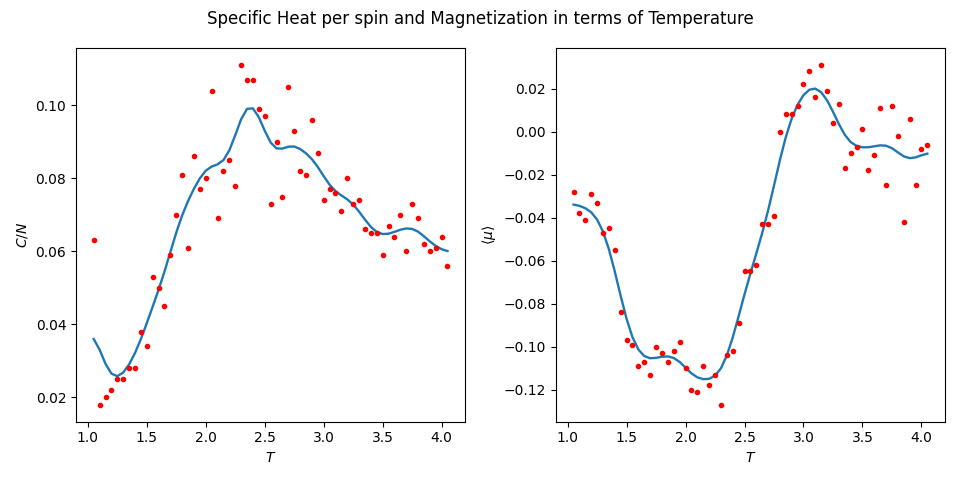
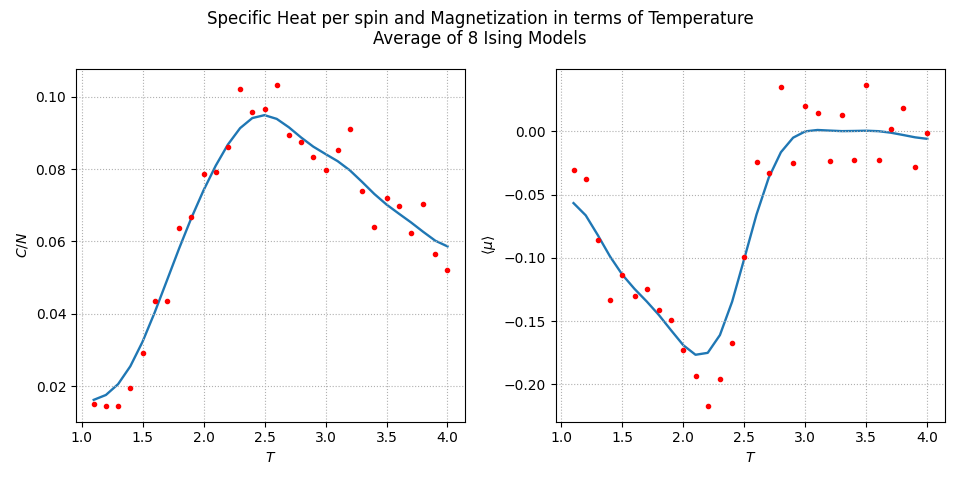
Caching KeyboardInterrupt, integrating heating.py and plot_heating.py

diff --git a/heating.py b/heating.py
@@ -1,12 +1,17 @@
 from dataclasses import dataclass, field
 import multiprocessing as mp
+import sys
 
 import pandas as pd
 import numpy as np
 import matplotlib.pyplot as plt
+from scipy.ndimage import gaussian_filter1d
 
 from ising import Ising
 import timer
+
+
+plt.rcParams.update({"figure.autolayout": True, "figure.figsize": [9.6, 4.8]})
 
 
 @dataclass
@@ -45,34 +50,43 @@ class HeatingIsing(Ising):
 
 
 def update_ising(ising):
-    while ising.temp <= 4.0:
-        ising.update()
-    return ising
+    try:
+        while ising.temp <= 4.0:
+            ising.update()
+        return ising
+    # Ignore KeyboardInterrupt on a child process
+    except KeyboardInterrupt:
+        pass
 
 
 @timer.timer
-def heatup_isings(isings):
-    with mp.Pool() as pool:
-        print(f"Heating up {isings_number} Ising Models! This may take some time...")
-        isings = pool.map(update_ising, isings)
-    return isings
+def heatup_isings(ising_list: list[HeatingIsing], processes: int) -> list[HeatingIsing]:
+    print(f"Heating up {processes} Ising Models. This may take some time...")
+    with mp.Pool(processes) as pool:
+        try:
+            return pool.map(update_ising, ising_list)
+        except KeyboardInterrupt:
+            # Kill the pool when KeyboardInterrupt is raised
+            pool.terminate()
+            pool.join()
+            sys.exit(1)
 
 
 if __name__ == "__main__":
-    # List with ising models to average over
-    isings_number = 8
-    isings = [HeatingIsing(shape=(64, 64), temp=1.0) for _ in range(isings_number)]
+    # Number of processes to use based on cpu_count of the machine
+    processes = int(mp.cpu_count() / 2)
+    ising_list = [HeatingIsing(shape=(32, 32), temp=1.0) for _ in range(processes)]
 
-    print("Spawning procecesses...")
-    mp.set_start_method("spawn", force=True)
-    isings = heatup_isings(isings)
+    print(f"Initializing process pool with {processes} processes.")
+    mp.set_start_method("spawn")
+    ising_list = heatup_isings(ising_list, processes)
 
-    temp_data = isings[0].plot.temp_data
+    temp_data = ising_list[0].plot.temp_data
     specific_heat_data = (
-        np.mean([ising.plot.specific_heat_data for ising in isings], axis=0)
-        / isings[0].lattice.spins
+        np.mean([ising.plot.specific_heat_data for ising in ising_list], axis=0)
+        / ising_list[0].lattice.spins
     )
-    magnet_data = np.mean([ising.plot.magnet_data for ising in isings], axis=0)
+    magnet_data = np.mean([ising.plot.magnet_data for ising in ising_list], axis=0)
 
     # Creating a dataframe with heating data
     result = pd.DataFrame(
@@ -87,13 +101,31 @@ if __name__ == "__main__":
         float_format="%.3f",
     )
 
-    print(f"Results saved at {outfile}")
+    print(f"Results saved as {outfile}")
 
-    fig, ax = plt.subplots(1, 2)
+    # Ploting heating data
+    fig, axes = plt.subplots(1, 2)
 
-    ax[0].set(xlabel=r"$T$", ylabel=r"$C / N$")
-    ax[0].plot(temp_data, specific_heat_data, "ro", ms=3.0)
-    ax[1].set(xlabel=r"$T$", ylabel=r"$\langle \mu \rangle$")
-    ax[1].plot(temp_data, magnet_data, "ro", ms=3.0)
+    specific_heat_filtered = gaussian_filter1d(specific_heat_data, sigma=2.0)
+    magnet_filtered = gaussian_filter1d(magnet_data, sigma=2.0)
 
+    fig.suptitle(
+        "Specific Heat per spin and Magnetization in terms of Temperature\n"
+        + f"Average of {processes} Ising Models"
+    )
+
+    axes[0].set(xlabel=r"$T$", ylabel=r"$C / N$")
+    axes[0].plot(temp_data, specific_heat_data, "ro", ms=3.0)
+    axes[0].plot(temp_data, specific_heat_filtered, lw=1.7, zorder=-1)
+
+    axes[1].set(xlabel=r"$T$", ylabel=r"$\langle \mu \rangle$")
+    axes[1].plot(temp_data, magnet_data, "ro", ms=3.0)
+    axes[1].plot(temp_data, magnet_filtered, lw=1.7, zorder=-1)
+
+    for ax in axes:
+        ax.grid(linestyle=":")
+
+    fig_outfile = "images/heating.png"
+    print(f"Figure saved as {fig_outfile}")
+    fig.savefig(fig_outfile)
     plt.show()
